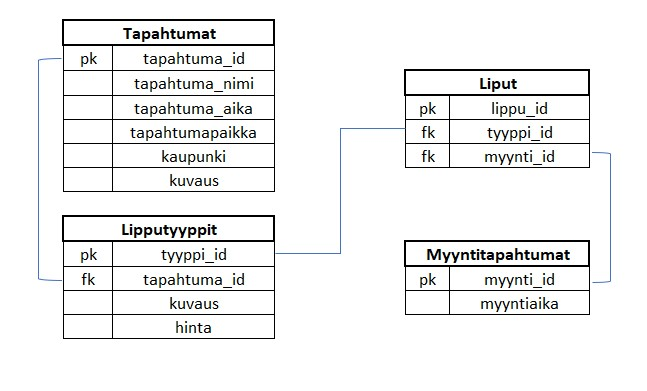
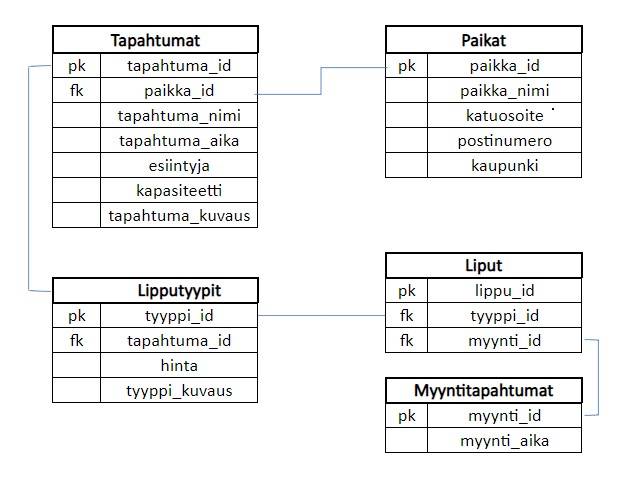
tietokantakuvan päivitys

Changed region(s): [[0.521, 0.0307, 0.9806, 0.9514], [0.0306, 0.0307, 0.521, 0.89]]

diff --git a/README.md b/README.md
@@ -57,7 +57,7 @@ Järjestelmän tietokantarakenne koostuu neljästä tietokantataulusta: tapahtum
 
 Tietokannat ja niiden väliset yhteydet on kuvattuna alla olevassa kaaviossa:
 
-![Tietokantakaavio](https://github.com/mmantyva/ohjelmistoprojekti1/blob/develop/tietokanta_v2.jpg)
+![Tietokantakaavio](https://github.com/mmantyva/ohjelmistoprojekti1/blob/develop/tietokanta.jpg)
 
 Tietokantaan sisältyvät elementit ja niiden attribuutit esitettynä tietohakemistossa:
 
